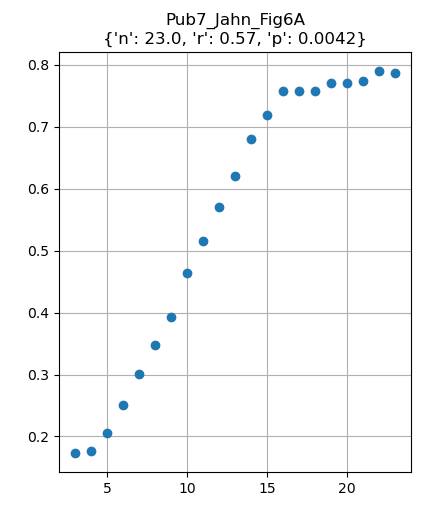
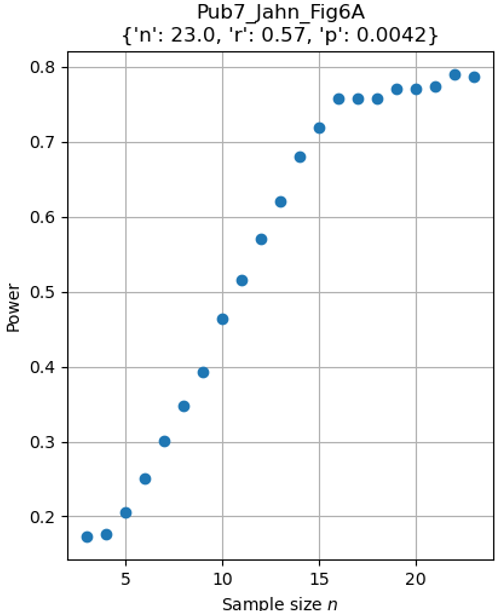
Pub 7 method dev

diff --git a/utils_mc.py b/utils_mc.py
@@ -75,6 +75,8 @@ def analyze_bootstrapped_params(path_load, stat_sign, nm=None, plot=None):
         p0 = {k: float(f"{v:.2g}") for k,v in p0.to_dict().items()}
         ax.set_title(f"{nm}\n{p0}")
         ax.grid()
+        ax.set_xlabel("Sample size $n$")
+        ax.set_ylabel("Power")
 
     return p0, nvals, power_vals
 

diff --git a/readme.md b/readme.md
@@ -18,15 +18,16 @@ after 177Lu-Dotatate [peptide-receptor radionuclide therapy (PRRT)](https://en.w
 
 ## Replication of data
 The data were mined from figures, or simply collected from tables. Extracted data are found as .csv in the folder 
-data/pubX and loaded using functions in utils_load.py. 
+data/pubX and loaded using functions in utils_load.py. Replicated figures along results are found in the figures folders.
 
-Replicated figures along results are found in the figures folders.
+**Publication 7 as example**: Running the script [pub7.py](pub7.py)
 
-**Publication 7**: replication of figures 6 and 7 (A + B) using extracted points.
-Note that the pearson correlation coefficients vary somewhat to the original, some points were omitted,
-but the p-values are representative.
+- First a generator of extracted points from the four figures are loaded using the function **load_pub7(folder_data)** from [utils_load.py](utils_load.py)
+- Figure 6A is replicated using extracted points. 
 
 <img src="./figures/pub7_jahn21/readme_data.png" alt="alt text" width="800"/>
+
+Note that the pearson correlation coefficient vary somewhat to the original (R2 of 0.33 versus 0.37), but the p-value is similar.
 
 
 ## Repeated subsampling to evaluate power
@@ -37,3 +38,5 @@ Publication 7 uses a double criteria: both $R^2 \geq 0.25$ and p < .05
 <br>
 
 <img src="./figures/pub7_jahn21/readme_power.png" alt="alt text" width="300"/>
+
+Evaluating the figure, it seems to converge to a power about
